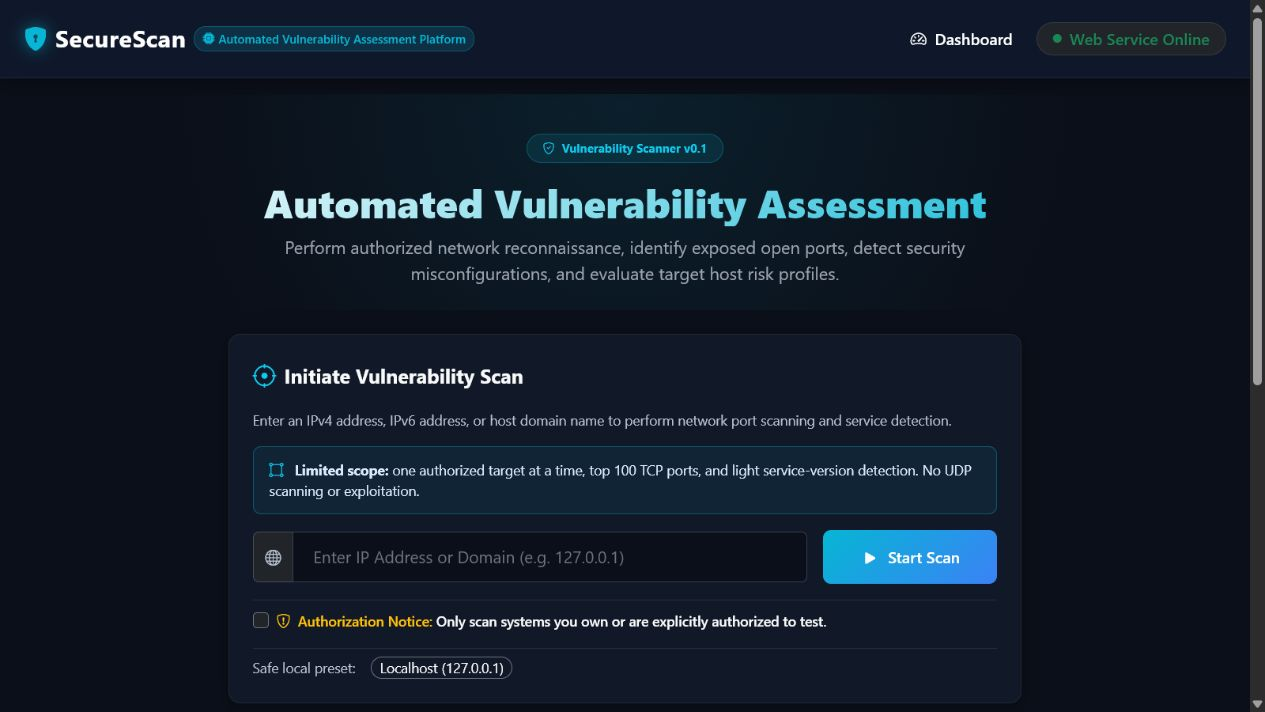
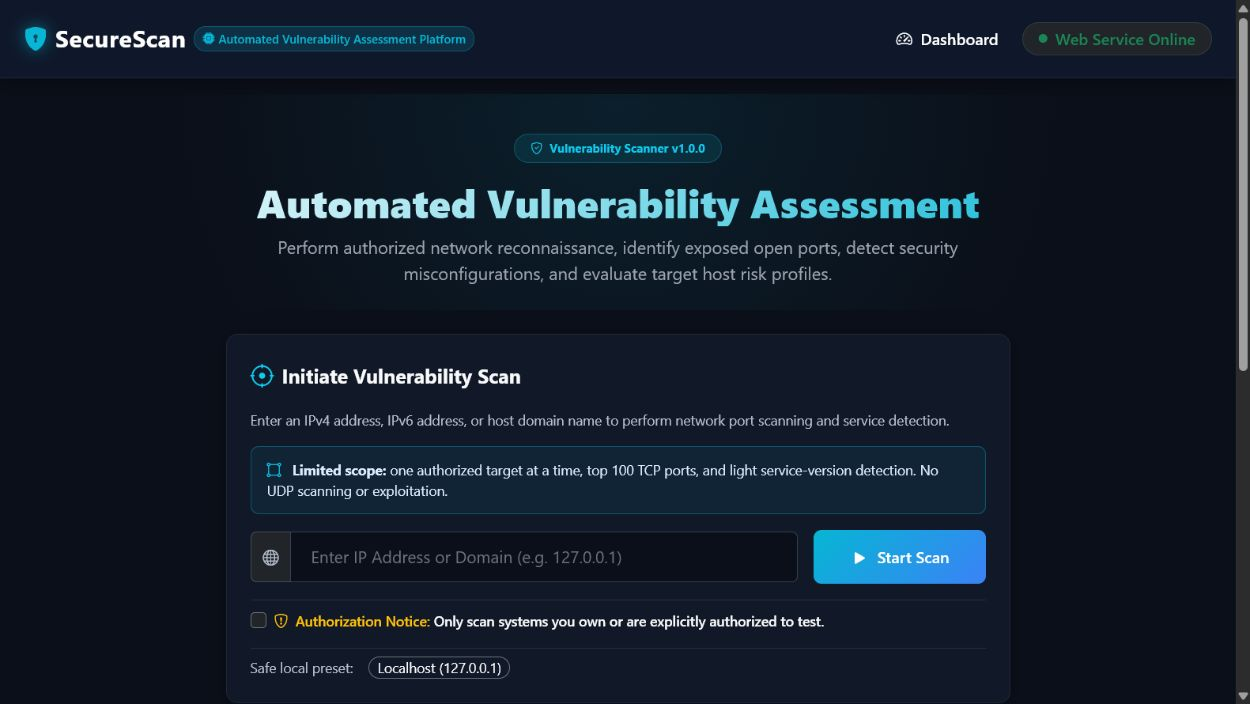
docs: prepare SecureScan v1.0.0 release metadata

diff --git a/templates/base.html b/templates/base.html
@@ -172,7 +172,7 @@
                     <div class="d-flex align-items-center justify-content-center justify-content-md-start gap-2">
                         <i class="bi bi-shield-check text-info"></i>
                         <span class="fw-bold text-light">SecureScan</span>
-                        <span class="badge bg-secondary bg-opacity-50 text-light ms-1">Version 0.1</span>
+                        <span class="badge bg-secondary bg-opacity-50 text-light ms-1">Version {{ app_version }}</span>
                     </div>
                 </div>
                 <div class="col-md-6 text-md-end">

diff --git a/templates/index.html b/templates/index.html
@@ -27,7 +27,7 @@
         <div class="container">
             <!-- Badge tag indicating enterprise cybersecurity platform -->
             <span class="badge bg-info bg-opacity-10 text-info border border-info border-opacity-25 px-3 py-2 rounded-pill mb-3">
-                <i class="bi bi-shield-check me-1"></i> Vulnerability Scanner v0.1
+                <i class="bi bi-shield-check me-1"></i> Vulnerability Scanner v{{ app_version }}
             </span>
             <!-- Large prominent heading -->
             <h1 class="hero-title mb-2">Automated Vulnerability Assessment</h1>

diff --git a/tests/test_app.py b/tests/test_app.py
@@ -21,6 +21,7 @@ from pathlib import Path
 from unittest.mock import patch
 
 from backend.app import _env_flag, _local_port, app
+from backend.version import APP_VERSION
 from database.db import (
     DatabaseError,
     get_connection,
@@ -58,6 +59,10 @@ class TestFlaskRoutes(unittest.TestCase):
         self.assertEqual(response.status_code, 200)
         self.assertIn(b"SecureScan", response.data)
         self.assertIn(b"Automated Vulnerability Assessment", response.data)
+        self.assertEqual(APP_VERSION, "1.0.0")
+        self.assertEqual(app.config["APP_VERSION"], APP_VERSION)
+        self.assertIn(b"Vulnerability Scanner v1.0.0", response.data)
+        self.assertIn(b"Version 1.0.0", response.data)
 
     def test_dashboard_presents_bounded_scope_and_accessibility_landmarks(self):
         """Verify portfolio wording remains cautious and keyboard accessible."""

diff --git a/backend/app.py b/backend/app.py
@@ -17,6 +17,7 @@ import logging
 import re
 from io import BytesIO
 from flask import Flask, render_template, request, redirect, url_for, flash, abort, send_file, jsonify
+from backend.version import APP_VERSION
 
 # Calculate the absolute path to the root project directory (one level up from backend/)
 BASE_DIR = os.path.dirname(os.path.dirname(os.path.abspath(__file__)))
@@ -35,6 +36,8 @@ logger = logging.getLogger(__name__)
 
 # Initialize Flask application with explicit template and static folder locations
 app = Flask(__name__, template_folder=TEMPLATE_DIR, static_folder=STATIC_DIR)
+app.config["APP_VERSION"] = APP_VERSION
+app.jinja_env.globals["app_version"] = APP_VERSION
 
 # Secret key configuration for Flask flash message session signing
 # WARNING: The default 'dev-only-change-me' key is for local development only.

diff --git a/backend/version.py b/backend/version.py
@@ -1,0 +1,3 @@
+"""Authoritative SecureScan application release version."""
+
+APP_VERSION = "1.0.0"

diff --git a/CHANGELOG.md b/CHANGELOG.md
@@ -1,0 +1,72 @@
+# Changelog
+
+Notable changes to SecureScan are documented in this file. The structure is
+inspired by [Keep a Changelog](https://keepachangelog.com/en/1.1.0/), and the
+project uses semantic application versions.
+
+## [1.0.0] - 2026-07-31
+
+### Added
+
+- Flask dashboard for authorized, single-target network assessments.
+- Controlled Nmap integration using a fixed profile against the top 100 TCP
+  ports with light service-version detection.
+- Target validation and an explicit authorization acknowledgement before scan
+  execution.
+- Transparent, deterministic rule-based findings with severity, confidence,
+  evidence, and remediation guidance.
+- SQLite persistence for scans, discovered open ports, and findings.
+- Historical scan listing and saved assessment detail views that do not rerun
+  Nmap or the analyzer.
+- Professional HTML reports and in-memory PDF reports generated from stored
+  assessment data.
+- Individual scan deletion and clear-history workflows with a reusable custom
+  confirmation modal.
+- Multi-stage Docker and Gunicorn deployment with a non-root runtime user,
+  localhost-only published port, persistent database volume, and process health
+  endpoint.
+- Automated unit, route, persistence, reporting, PDF, and Docker-configuration
+  tests with scanner execution mocked.
+- GitHub Actions CI covering Python 3.11 through 3.13, compilation, Compose
+  validation, and the Docker test-stage image.
+- Contribution guidance, pull-request checklist, and structured bug-report and
+  feature-request templates.
+- Professional README documentation, architecture diagram, and sanitized
+  portfolio screenshots using localhost or synthetic demonstration data.
+
+### Security
+
+- Restricted use to systems the user owns or is explicitly authorized to
+  assess, with a required acknowledgement before scanning.
+- Preserved a fixed single-target scanner profile with no arbitrary Nmap
+  arguments, UDP scanning, authenticated checks, or exploitation.
+- Kept automated scanner calls mocked; CI performs no real Nmap scans and uses
+  only synthetic non-production secrets and temporary database storage.
+- Excluded secrets, local environment files, databases, generated reports,
+  logs, caches, and private assessment data from version control.
+- Generated historical views and reports exclusively from stored data without
+  triggering new network activity.
+
+### Changed
+
+- Aligned visible application version wording and Docker image naming with the
+  `1.0.0` application release.
+- Established a single authoritative application-version constant exposed to
+  Flask templates.
+- Clarified that report-format version `1.0` identifies the report schema and
+  layout independently of application version `1.0.0`.
+- Replaced phase-era portfolio wording with release-oriented documentation.
+
+### Known Limitations
+
+- Scans only the top 100 TCP ports; UDP ports are not assessed.
+- Does not perform authenticated security checks or exploitation.
+- Does not query an external CVE or threat-intelligence source.
+- Rule-based findings indicate potential exposure or configuration risk and do
+  not prove exploitability or complete security.
+- Service detection depends on the limited information returned by Nmap.
+- The health endpoint checks process responsiveness only, not database writes,
+  Nmap availability, scanner permissions, or target reachability.
+- Docker Desktop uses virtualized networking: `localhost` inside the container
+  refers to the container, while `host.docker.internal` refers to the host.
+  Firewalls, VPNs, and endpoint-security tools can also affect connectivity.

diff --git a/README.md b/README.md
@@ -1,5 +1,7 @@
 # SecureScan
 
+> **Stable portfolio release: v1.0.0**
+
 > A Flask-based, authorized vulnerability assessment platform that performs
 > controlled Nmap service discovery, applies transparent rule-based security
 > checks, preserves scan history in SQLite, and produces professional HTML and
@@ -22,6 +24,16 @@ vulnerability assessment application.
 > SecureScan must only be used against systems you own or have explicit
 > authorization to assess. The application requires users to confirm
 > authorization before a scan can begin.
+
+## Release Status
+
+SecureScan v1.0.0 is the stable portfolio release. See the
+[changelog](CHANGELOG.md) for delivered capabilities, security decisions, and
+known limitations.
+
+The application version is `1.0.0`. Reports use a separate internal
+report-format version, currently `1.0`, to identify their schema and layout;
+the report-format version is not the application release version.
 
 ## Key Features
 
@@ -71,7 +83,7 @@ rerun Nmap or the analyzer.
 SecureScan/
 ├── backend/                 # Flask application, configuration, and routes
 ├── database/                # SQLite access layer and schema
-├── docs/                    # Portfolio documentation and future images
+├── docs/                    # Architecture and sanitized portfolio images
 ├── reports/                 # Report normalization and PDF generation
 ├── scanner/                 # Target validation and Nmap integration
 ├── static/                  # Custom CSS and static asset directories
@@ -122,6 +134,8 @@ manager, then verify that the `nmap` executable is available on `PATH`.
 
 Docker Desktop on Windows must be running with Linux containers enabled.
 The image installs both the `python-nmap` wrapper and the Linux Nmap executable.
+Compose builds the runtime image with the release-oriented tag
+`securescan:1.0.0`.
 
 Set a strong Flask session secret before starting Compose:
 
